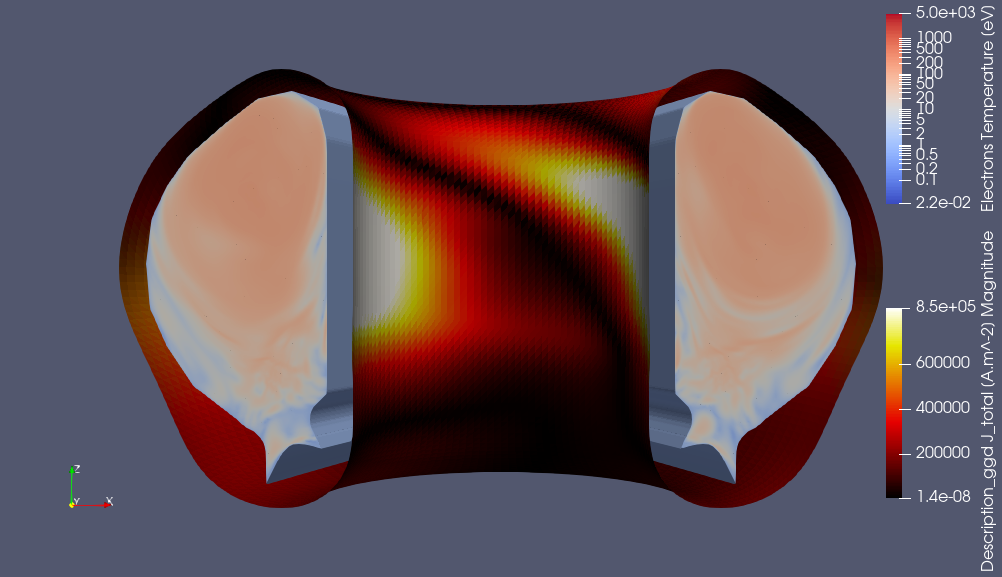
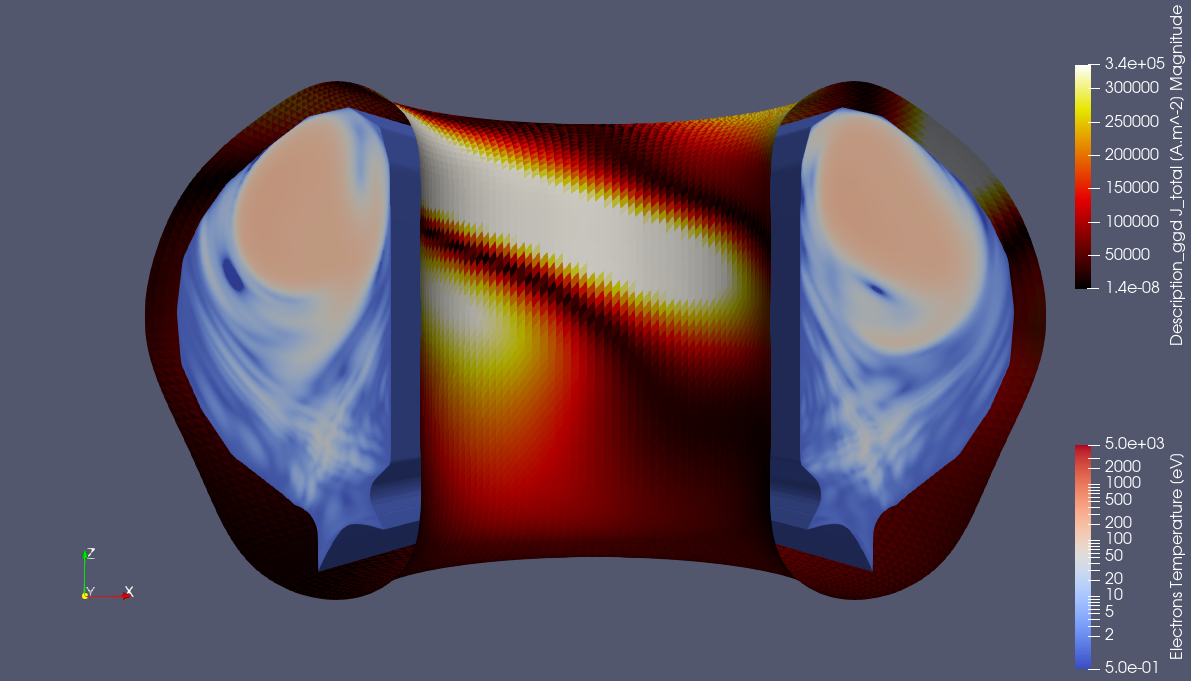
add time stamp to jorek wall figure

diff --git a/docs/source/training_jorek.rst b/docs/source/training_jorek.rst
@@ -57,7 +57,7 @@ In this subsection, we load the wall currents of the simulation using the GGD Re
 
 .. figure:: images/training/jorek_wall_currents.png
 
-   JOREK GGD showing the electron temperature surrounded by the wall showing the total current. Data provided by J. Artola.
+   JOREK GGD showing the electron temperature surrounded by total current in the inner vacuum vessel (``t=0.309984``). Data provided by J. Artola.
 
 Temporal Interpolation and Animation
 ^^^^^^^^^^^^^^^^^^^^^^^^^^^^^^^^^^^^
